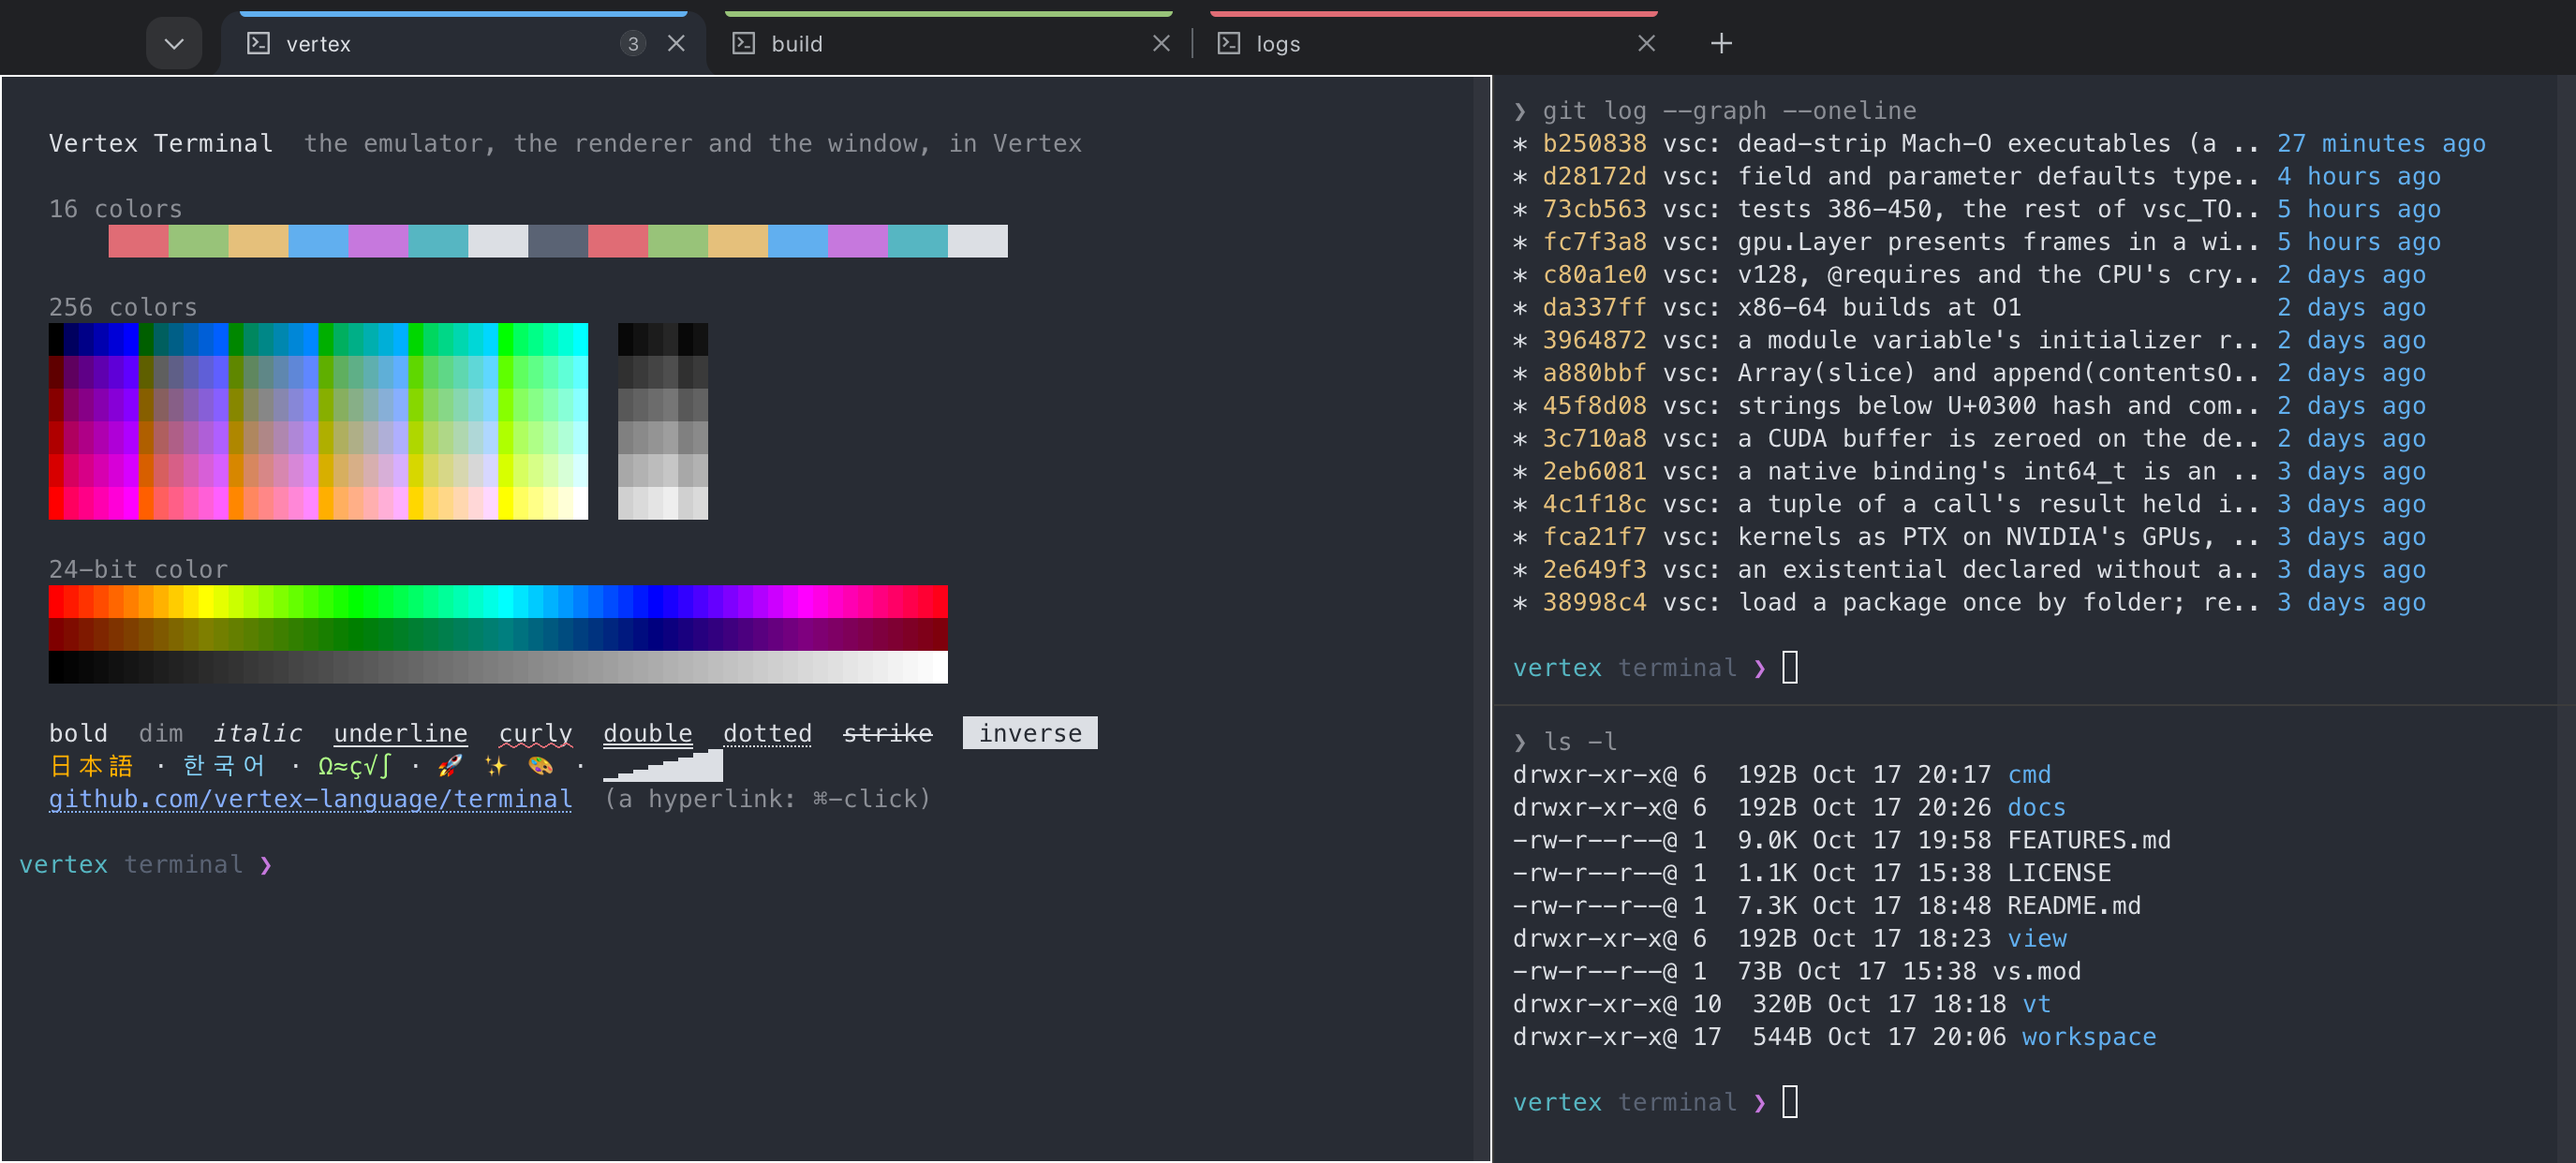
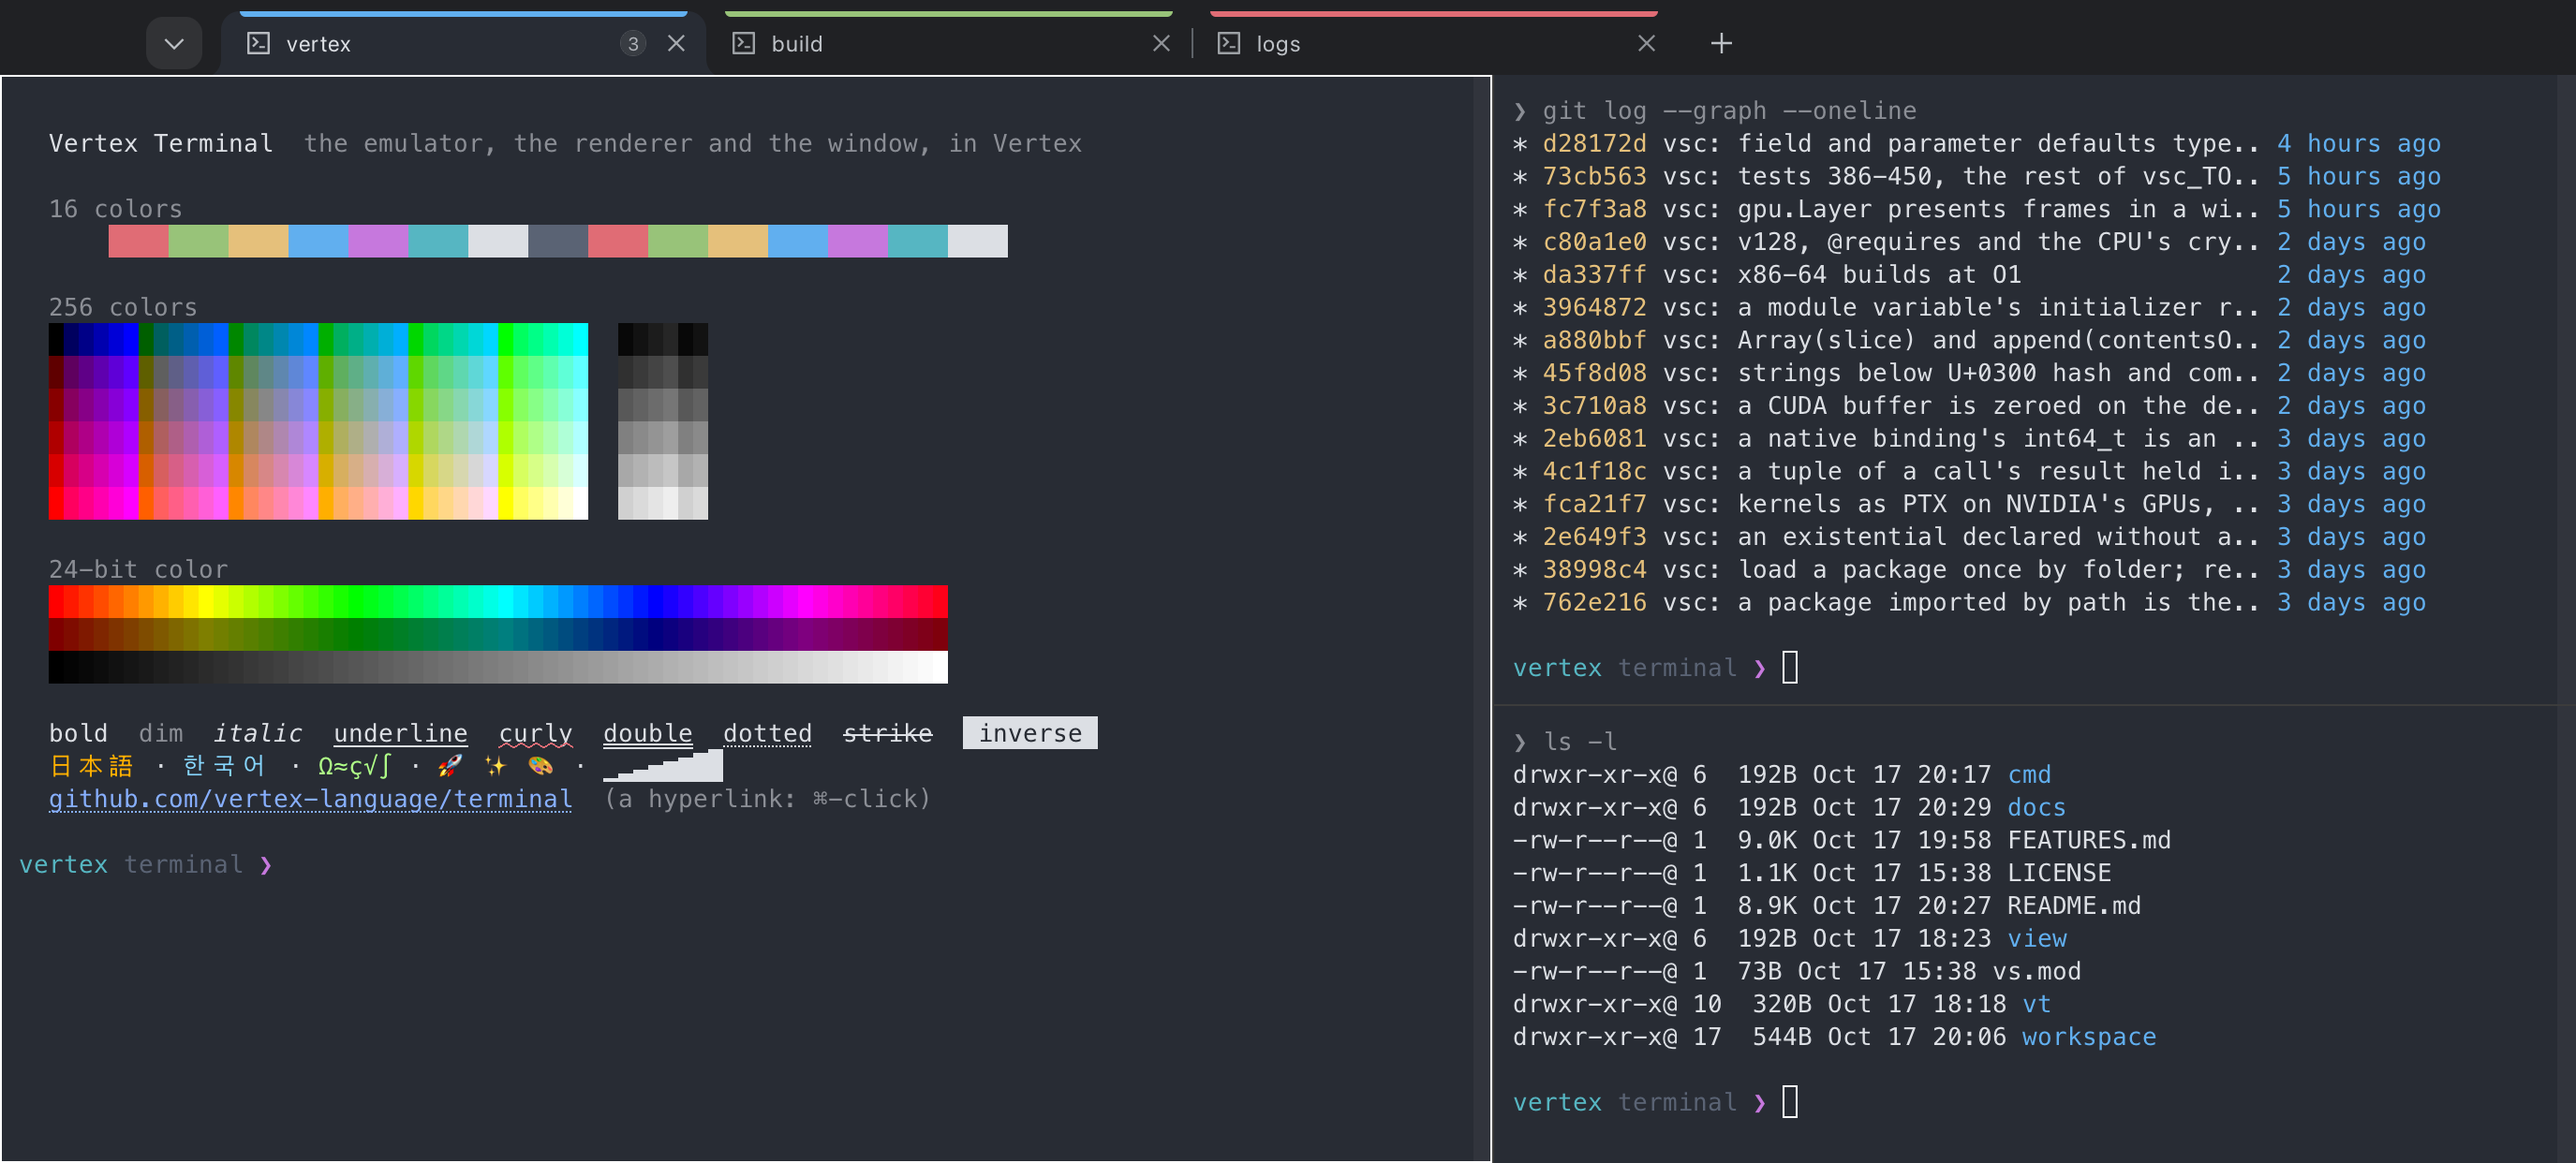
README: as an app's -- what it does, getting started, keys, settings, how it's built; the screenshot's log starts two hours back

diff --git a/README.md b/README.md
@@ -1,61 +1,68 @@
-# terminal
+<h1 align="center">Vertex Terminal</h1>
 
-[![package: vs-package](https://img.shields.io/badge/package-vs--package-f4f4f5?style=flat-square&labelColor=e4e4e7&color=18181b)](https://github.com/vertex-language)
-[![packages: vt | view | workspace](https://img.shields.io/badge/packages-vt%20%7C%20view%20%7C%20workspace-f4f4f5?style=flat-square&labelColor=e4e4e7&color=18181b)](https://github.com/vertex-language/terminal)
-[![status: macOS tested](https://img.shields.io/badge/status-macOS%20tested-f4f4f5?style=flat-square&labelColor=e4e4e7&color=18181b)](https://github.com/vertex-language/terminal)
+<p align="center">
+  <b>Everything Windows Terminal does, on the Mac.</b><br>
+  Written in Vertex, from the pseudo-terminal to the pixels.
+</p>
+
+<p align="center">
+  <a href="#get-started">Get started</a> ·
+  <a href="#features">Features</a> ·
+  <a href="#keyboard">Keyboard</a> ·
+  <a href="#settings">Settings</a> ·
+  <a href="#how-its-built">How it's built</a>
+</p>
 
 <p align="center">
   <img src="docs/screenshot.png" alt="Vertex Terminal: three color-striped tabs, the first split into three panes -- the 16, 256 and 24-bit colors, underline styles, CJK and emoji beside a colored git log and a directory listing" width="100%">
 </p>
 
-<p align="center">
-  <b>A terminal with everything Windows Terminal has, on the Mac -- written in Vertex, from the pseudo-terminal to the pixels.</b>
-</p>
-
----
+## Features
 
 - **Every color, every style.** 16, 256 and 24-bit color; bold, italic, dim,
-  strike, inverse; curly, double, dotted and dashed underlines in their own
-  colors; OSC 8 hyperlinks; sixel images; CJK and emoji at double width; Windows
-  Terminal's color schemes, light and dark.
-- **Tabs and panes.** Chrome-style tabs in the title bar -- drag one to reorder
-  it, give it a color, rename it -- each split into panes in any direction, to
-  resize, zoom, swap or type into all at once.
-- **A settings page, and `settings.json`.** Windows Terminal's own format:
-  profiles, schemes, actions and keys, reloaded the moment it's saved. Or press
-  ⌘, and change them in a Settings tab that writes the file for you.
-- **Everything at a keystroke.** ⌘⇧P lists every action with its keys; find
-  with ⌘F; jump between prompts with ⌘↑ ⌘↓; select by mouse, by keyboard (mark
-  mode) or by block.
-- **Nothing but Vertex.** `vt` is the emulator, `view` the renderer and
-  `workspace` the window -- about 11,600 lines of `.vs`, `.vsx` and `.vss`,
-  built into one native executable of under 5 MB. No Electron, no system web view.
+  strike and inverse; curly, double, dotted and dashed underlines in colors of
+  their own; clickable OSC 8 hyperlinks; sixel images; CJK and emoji at double
+  width; all of Windows Terminal's color schemes, light and dark.
+- **Tabs and panes.** Chrome-style tabs in the title bar -- drag one to
+  reorder it, give it a color, rename it -- each split into panes in any
+  direction, to resize, zoom, swap, or type into all at once.
+- **Settings two ways.** Press ⌘, for a Settings tab, or edit `settings.json`
+  in Windows Terminal's own format: profiles, color schemes, actions and keys,
+  applied the moment they're saved.
+- **Everything at a keystroke.** ⌘⇧P lists every action with its keys. Find
+  with ⌘F, jump between prompts with ⌘↑ ⌘↓, select with the mouse, the
+  keyboard (mark mode) or by block.
+- **Your session, kept.** Tabs, panes and their directories come back the
+  next time it opens, if you want them to.
+- **Small and native.** One executable of under 5 MB, drawn by its own
+  renderer: no Electron, no system web view.
 
-<p align="center">
-  <img src="docs/settings.png" alt="The Settings tab: a sidebar of pages and profiles beside cards of settings with switches, choices and steppers" width="100%">
-</p>
+[FEATURES.md](FEATURES.md) goes through Windows Terminal's features one by
+one, and says which are here.
 
-[FEATURES.md](FEATURES.md) goes through Windows Terminal's features one by one.
-The screenshot is `docs/showcase.sh`, in the layout and settings
-(`docs/showcase.json`, One Half Dark) its header describes.
+## Get started
 
-## Quick Start
+Vertex Terminal runs on macOS 14 or later, and builds with
+[`vsc`](https://github.com/vertex-language/vsc), the Vertex compiler.
 
 ```bash
-vsc run terminal                           # your $SHELL, in a window
-vsc run terminal -- --light                # or --dark, whatever the system's
-vsc run terminal -- new-tab -p bash -d ~/src \; split-pane -V   # wt's command line
-vsc run terminal -- --tabs 3 --type "ls\n" # open tabs, type into the last
-
-vsc run check                              # the emulator's checks (offline)
-vsc run check-ui                           # the window, headless, with real shells
-vsc run render-snapshot -- out.png         # what view draws, as a PNG
+git clone https://github.com/vertex-language/terminal
+cd terminal
+vsc run terminal
 ```
 
-`--snapshot out.png --snapshot-after 2` (from `ui/app`) draws the window two
-seconds in and quits; `--action <id>` runs an action at startup
-(`--action Terminal.ToggleCommandPalette`), `--quit-after 3` quits as ⌘Q
-does.
+It opens your `$SHELL` as a login shell. It also takes Windows Terminal's
+`wt` command line, to open a layout:
+
+```bash
+vsc run terminal -- new-tab -p bash -d ~/src \; split-pane -V   # bash in ~/src, split
+vsc run terminal -- --light                                     # or --dark
+```
+
+`TERM` is `xterm-256color`, with `COLORTERM=truecolor` and
+`TERM_PROGRAM=vertex-terminal`.
+
+## Keyboard
 
 | Keys | Do |
 | :--- | :--- |
@@ -69,26 +76,33 @@ does.
 | ⌘F, ⌘G ⌘⇧G | find, next/previous match |
 | ⌘C ⌘V ⌘A, ⌘⇧M | copy, paste (with warnings), select all; mark mode |
 | ⌘↑ ⌘↓, ⌘⇧← ⌘⇧→ | previous/next prompt (shell integration); select command/output |
-| ⇧PageUp ⇧PageDown, ⌘Home ⌘End, the wheel, the scrollbar | scroll |
+| ⇧PageUp ⇧PageDown, ⌘Home ⌘End | scroll |
 | ⌘K, ⌘S | clear the buffer, export it to ~/Downloads |
 | ⌘+ ⌘- ⌘0, ⌘ wheel, ⌘⇧ wheel | font size; opacity |
-| ⌃⌘F, ⌘, | fullscreen, settings |
+| ⌃⌘F | fullscreen |
+| ⌘,  ⌘⇧, | the Settings tab; settings.json |
 | drag, double-, triple-click, ⇧-click, ⌥-drag | select characters, a word, a line, extend, a block |
 | ⌘-click | open a hyperlink or URL |
-| right-click | the menu (copy, paste, split, find, read-only, export…) |
+| right-click | the menu: copy, paste, split, find, read-only, export… |
 
-Option is a composing key, as on a Mac; `TERMINAL_OPTION_AS_META=1` sends it
-as Meta (ESC before the key) for shells' Alt bindings.
+Option composes characters, as everywhere on a Mac;
+`TERMINAL_OPTION_AS_META=1` makes it Meta instead, for a shell's Alt bindings.
 
 ## Settings
 
-`~/Library/Application Support/vertex-terminal/settings.json` (or
-`$VERTEX_TERMINAL_SETTINGS`), in [Windows Terminal's
-format](https://learn.microsoft.com/windows/terminal/customize-settings/):
-global settings, `profiles` (a `defaults` object and a `list`), `schemes`,
-and `actions`/`keybindings` by Windows Terminal's ids, with `cmd` for ⌘.
-It is written the first time with a profile for each shell in
-`/etc/shells`, and read again whenever it is saved.
+<p align="center">
+  <img src="docs/settings.png" alt="The Settings tab: a sidebar of pages and profiles beside cards of settings with switches, choices and steppers" width="100%">
+</p>
+
+The Settings tab (⌘,) has startup, interaction and appearance, the color
+schemes, every action and its keys, the defaults every profile starts from,
+and each profile. A change is written to `settings.json` at once.
+
+`settings.json` lives in `~/Library/Application Support/vertex-terminal/` (or
+wherever `$VERTEX_TERMINAL_SETTINGS` says), in [Windows Terminal's
+format](https://learn.microsoft.com/windows/terminal/customize-settings/) with
+`cmd` for ⌘. It's written the first time with a profile for each shell in
+`/etc/shells`.
 
 ```jsonc
 {
@@ -103,67 +117,68 @@ It is written the first time with a profile for each shell in
 }
 ```
 
----
+## How it's built
 
-## Packages
+About 11,600 lines of Vertex, in three packages:
 
 | Package | What it is |
 | :--- | :--- |
-| **`terminal/vt`** | The emulator: bytes in, a screen of cells out. A DEC/xterm parser (UTF-8, CSI, OSC, DCS), the main and alternate screens, a scrollback ring with reflow, scrolling regions and left/right margins, rectangular editing, selective erase, SGR with 16, 256 and 24-bit colors and underline styles and colors, grapheme clusters, double-width/height lines, hyperlinks, shell-integration marks, palette changes, sixel images, the kitty keyboard protocol, and the reports programs ask for. `EncodeKey`, `EncodeMouse`, `EncodePaste`, `EncodeFocus` are what the host sends back; `Find` searches. No I/O and no drawing. |
-| **`terminal/view`** | The renderer: a `vt.Terminal` into RGBA pixels, in a monospaced font and a theme (a Windows Terminal color scheme), with Windows Terminal's cursor shapes, a selection (or block), search matches, hyperlinks, sixel images and a scrollbar with marks. Box drawing and block elements are drawn as shapes so lines meet. It redraws only the rows that changed. |
-| **`terminal/workspace`** | The window, as `.vsx` and `.vss`: the tab bar, split panes drawn into one surface (a `ui/viewport`), the command palette, find, menus and dialogs, keys and their actions, the pointer, selection and the clipboard, each pane's shell (`os/pty` + `vt`), and `settings.json`. `workspace.TerminalWindow(controller:)`. |
+| [`vt`](vt) | The emulator: bytes in, a screen of cells out. A DEC/xterm parser (UTF-8, CSI, OSC, DCS), the main and alternate screens, scrollback with reflow, scrolling regions and margins, SGR colors and underline styles, grapheme clusters, double-width and double-height lines, hyperlinks, shell-integration marks, sixel images, the kitty keyboard protocol, and the reports programs ask for. No I/O, no drawing. |
+| [`view`](view) | The renderer: a screen into pixels, in a monospaced font and a color scheme, with the cursor shapes, selections, search matches, images and the scrollbar. Box drawing is drawn as shapes so lines meet; only the rows that changed are drawn again. |
+| [`workspace`](workspace) | The window, in `.vsx` and `.vss`: the tab bar, panes, the command palette, find, menus and dialogs, the Settings tab, keys and actions, the pointer and the clipboard, each pane's shell under `os/pty`, and `settings.json`. |
 
 ```
 cmd/terminal   app.Run { <workspace.TerminalWindow /> }
       │
-workspace      tab bar (.vsx/.vss) · Controller · Shell ──► os/pty (the shell's terminal)
+workspace      tabs, panes, palette, settings (.vsx/.vss) · Controller · Shell ──► os/pty
       │                                   │
-      ├──── view (pixels) ◄──── vt (screen, scrollback, modes) ◄── bytes
+      ├──── view (pixels) ◄──── vt (screen, scrollback, modes) ◄── the shell's bytes
       │
 ui/viewport ── ui/app ── web (page, events) ── ui/window
 ```
 
-Output arrives in a task on the main actor: the shell's bytes go to
-`vt.Feed`, the replies it wants (cursor reports, device attributes) go back
-to the shell, and the viewport is invalidated; the next frame draws the
-rows that changed. 200,000 lines of `seq` reach the screen in about a
-quarter of a second (`check-ui`).
+The window's chrome is a `.vsx` page laid out and painted by the
+[`web`](https://github.com/vertex-language/web) engine, also written in
+Vertex; each pane's text is drawn straight into a `ui/viewport` beside it.
+A shell's output arrives in a task on the main actor: its bytes go to
+`vt.Feed`, the replies the screen owes (cursor reports, device attributes)
+go back, and the next frame draws the rows that changed -- 200,000 lines of
+`seq` reach the screen in about a quarter of a second.
 
-`TERM` is `xterm-256color`, with `COLORTERM=truecolor` and
-`TERM_PROGRAM=vertex-terminal`.
+## Development
 
----
+```bash
+vsc run check                         # the emulator's checks, offline
+vsc run check-ui                      # the window, headless, with real shells
+vsc run render-snapshot -- out.png    # what view draws, as a PNG
+```
 
-## What it does not do yet
-
-[FEATURES.md](FEATURES.md) has the list; the larger pieces are several
-windows (and quake mode), background images
-and acrylic, ligatures, regex search, copying as HTML, and Windows (where
-`os/pty` has no ConPTY yet).
-
-The bugs and gaps found on the way, in vsc and the packages it uses, are in
-`../vsc_TODO.md`.
-
----
-
-## Layout
+The app takes a few flags for tests and pictures: `--snapshot out.png
+--snapshot-after 2` draws the window two seconds in and quits, `--action <id>`
+runs an action at startup (`--action Terminal.ToggleCommandPalette`), and
+`--quit-after 3` quits as ⌘Q does. The screenshots above are
+[`docs/showcase.sh`](docs/showcase.sh); its header has the command.
 
 ```
 terminal/
-  vs.mod
-  FEATURES.md  Windows Terminal's features, and which are here
-  vt/          cell.vs, terminal.vs, parser.vs, csi.vs, input.vs, width.vs, sixel.vs
-  view/        view.vs, theme.vs, boxes.vs
-  workspace/   workspace.vsx, controller.vs, actions.vs, input.vs, panes.vs,
-               shell.vs, settings.vs, schemes.vs, session.vs, ui.vs, style.vss,
-               settingspage.vsx, settingsui.vs (the Settings tab), tabdrag.vs
-  docs/        screenshot.png, settings.png, and showcase.sh/.json that make them
+  vt/          the emulator
+  view/        the renderer
+  workspace/   the window, its Settings tab and settings.json
   cmd/
     terminal/         the app
     check/            vt's checks
     check-ui/         the window mounted headless, typed into, with real shells
     render-snapshot/  a sample screen drawn to a PNG
+  docs/        the screenshots, and the script that makes them
+  FEATURES.md  Windows Terminal's features, and which are here
 ```
+
+## Roadmap
+
+[FEATURES.md](FEATURES.md) has the full list. The larger pieces still to come
+are several windows (and quake mode), background images and acrylic,
+ligatures, regex search, copying as HTML, and Windows, where `os/pty` has no
+ConPTY yet.
 
 ## License
 
